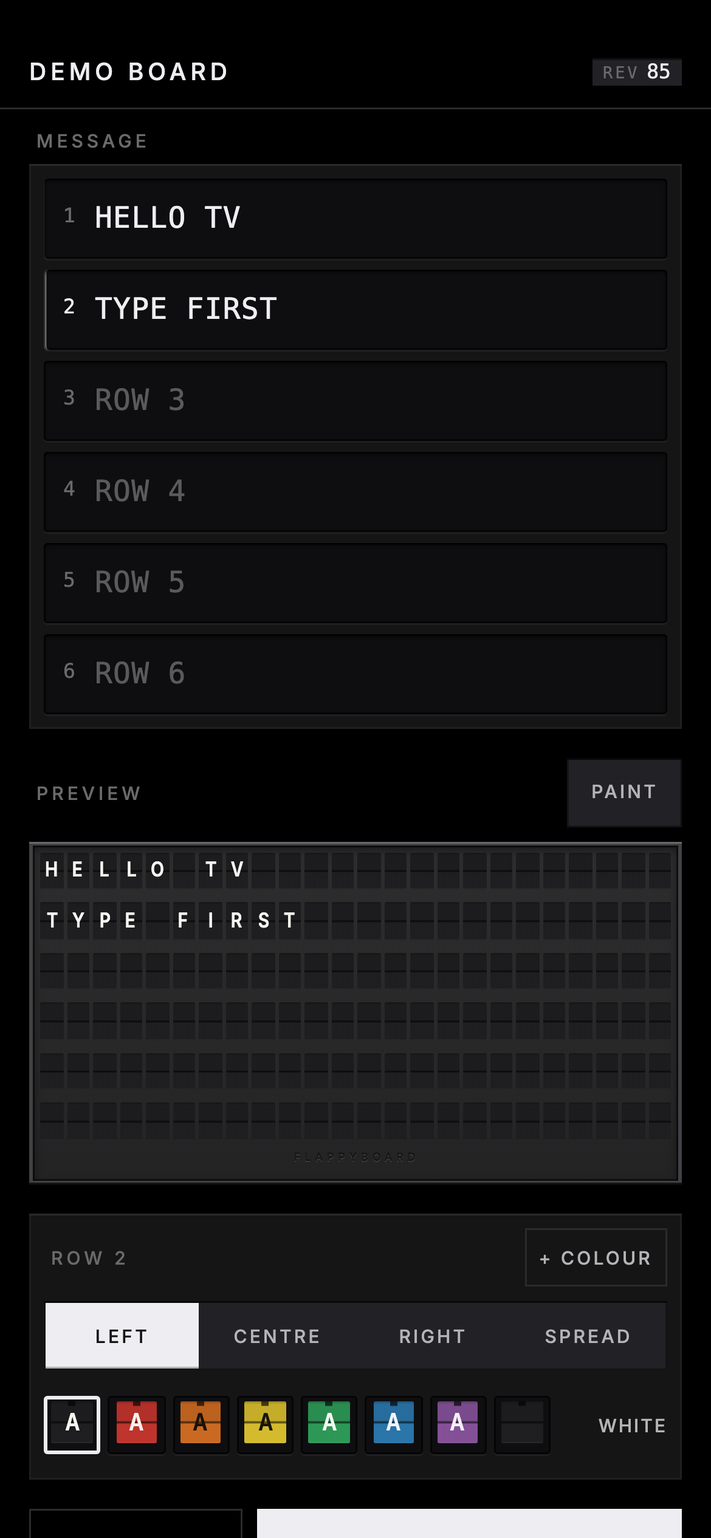
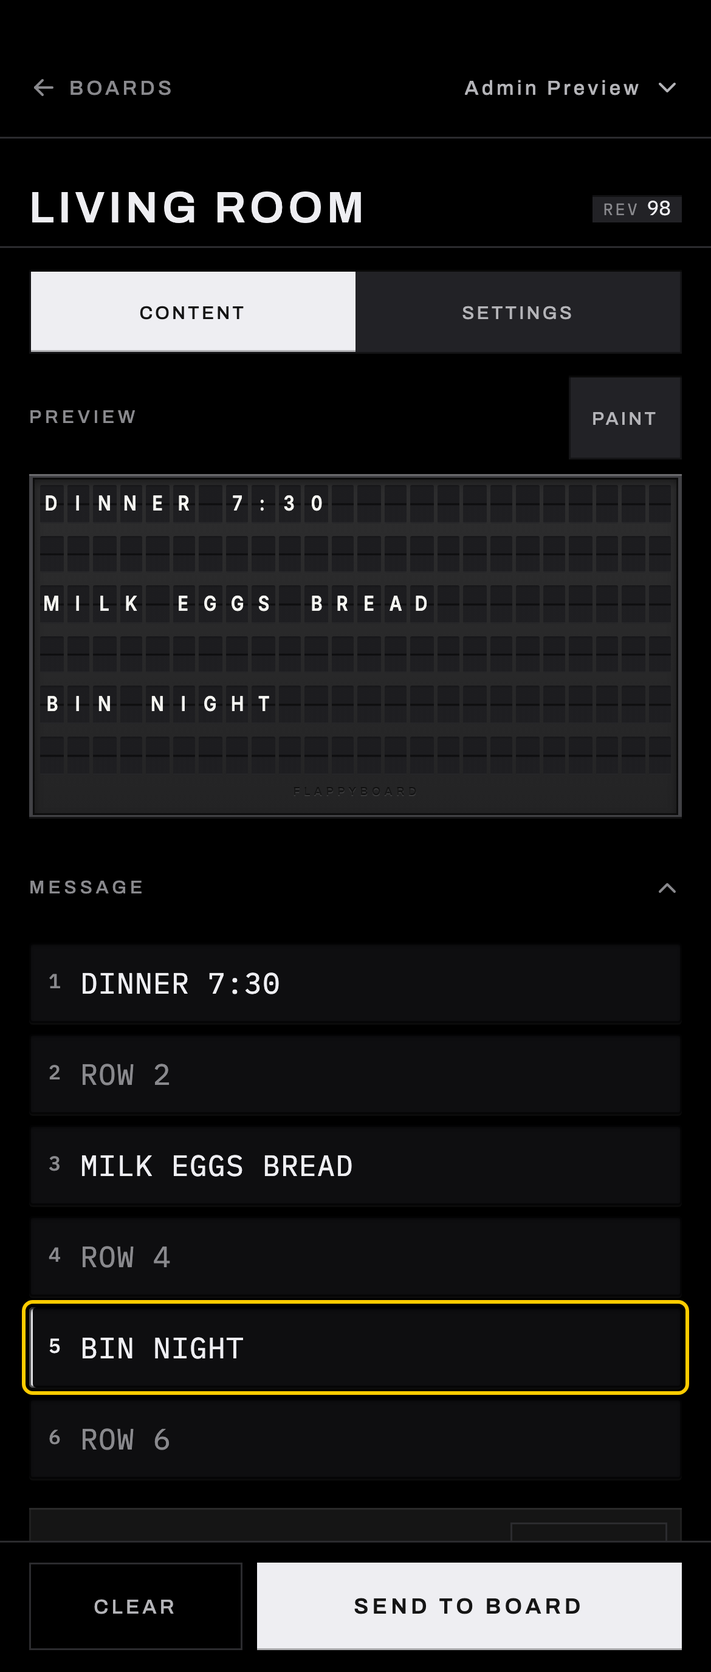
docs(readme): refresh screenshots and the journey the redesign replaced
The README still described the app as it was before phases 2 and 3: a
create-board form, a board picker, six bare text inputs as the primary
instrument, and a Quick start that told you to sign in and go to /boards.
None of that exists any more.

Recaptured every phone and TV screenshot against the shipped console, and
added the two the product never had a picture of — the flap pairing code a
television shows, and the flap code field on /link.

Also corrected, since they were each wrong rather than merely stale:
  - the test badge (849 -> 1,262) and the verification line (44 -> 54 files,
    harness 7/7 -> 10/10)
  - Issue #1 is closed; the README still said not to deploy with a real API
    key, which has not been true since e04b427
  - dropped boards-page.png, which showed a page that no longer exists

One copy defect the settings screenshot exposed: revoke.confirm read
"Unpair phones" while every other string in boards.json reads "Un-pair".
Standardised on the hyphenated form.

diff --git a/README.md b/README.md
@@ -9,7 +9,7 @@
   <a href="https://workers.cloudflare.com/"><img src="https://img.shields.io/badge/runtime-Cloudflare%20Workers-F38020?logo=cloudflare&logoColor=white" alt="Cloudflare Workers"></a>
   <a href="https://reactrouter.com/"><img src="https://img.shields.io/badge/framework-React%20Router%20v7-CA4245?logo=reactrouter&logoColor=white" alt="React Router v7"></a>
   <a href="https://effect.website/"><img src="https://img.shields.io/badge/typed-Effect%20TS-1E1E2C" alt="Effect TS"></a>
-  <img src="https://img.shields.io/badge/tests-849%20passing-3fb950" alt="849 tests passing">
+  <img src="https://img.shields.io/badge/tests-1262%20passing-3fb950" alt="1262 tests passing">
 </p>
 
 <p align="center">
@@ -30,29 +30,55 @@ It is the family-message-board / departures-board / passive-aggressive-roommate-
 
 ## How it works
 
-### 1. The TV opens a URL and never touches it again
+### 1. Point a TV at `/tv`. It shows a code.
 
 <p align="center">
-  <img src="docs/assets/tv-qr.png" alt="The TV display showing a live board with a QR code overlay in the bottom-right corner labelled SCAN TO CONTROL" width="700">
+  <img src="docs/assets/tv-pairing.png" alt="The TV pairing screen: a large QR code above the instruction to scan it, and below that the six-character pairing code set in real split-flap tiles reading XAN3XK" width="700">
 </p>
 
-Six rows, twenty-four columns, full-bleed, every cell with its own character *and* its own colour. A QR code sits in the corner. That is the whole TV-side interaction — you type the URL once with the remote and you are done forever.
+This is the one instruction the product cannot infer for you: **on your TV's browser, go to `yourhost/tv`.** Type it once with the remote and never touch that TV again.
 
-### 2. Your phone scans the QR and becomes the keyboard
+The code underneath the QR is not a mono readout of a code — it is six **real flap tiles**, the same component that draws the board. The split-flap module is the product's atomic UI primitive, so it shows up wherever a short string matters, at whatever scale that surface needs.
+
+### 2. Scan it with your phone. That's the whole setup.
 
 <p align="center">
-  <img src="docs/assets/phone-controller.png" alt="The phone controller: six numbered text inputs for the six board rows, a live preview grid beneath them, and per-row alignment and colour controls" width="330">
+  <img src="docs/assets/link-code.png" alt="The Link a TV page on a phone: the six-character code field rendered as six split-flap tiles with K7Q typed into the first three, a lit slot bar marking the next cell, and a PAIR THE TV key beneath" width="300">
+</p>
+
+Scan, sign in, done — you land on the controller for that TV, with nothing to answer. **A board *is* a TV**, so scanning always makes one and names it for you. There is no "create a board" step, no picker, and no board-count branch anywhere in the flow.
+
+If the phone can't scan (or the QR has expired), the same page takes the code by hand — and the field is the flap tiles themselves.
+
+### 3. The TV becomes the board
+
+<p align="center">
+  <img src="docs/assets/tv-qr.png" alt="The TV display showing a live board reading DINNER 7:30 in yellow, MILK EGGS BREAD with MILK in green, and BIN NIGHT with BIN in blue, with a QR code overlay in the bottom-right corner labelled SCAN TO CONTROL" width="820">
+</p>
+
+Six rows, twenty-four columns, full-bleed, every cell with its own character *and* its own colour. A QR code sits in the corner so anyone else in the room can join by pointing a camera at it.
+
+### 4. The phone is the controller
+
+<p align="center">
+  <img src="docs/assets/phone-controller.png" alt="The phone controller: a LIVING ROOM nameplate with a revision counter, Content and Settings tabs, a live preview of the board, and six numbered row wells below it" width="300">
   &nbsp;&nbsp;
-  <img src="docs/assets/row-paint.png" alt="Paint mode on the phone: tapping cells in the preview grid to colour them individually" width="330">
+  <img src="docs/assets/row-paint.png" alt="Paint mode on the phone: an eight-swatch colour palette above the preview grid, with DINNER painted yellow, MILK green and BIN blue" width="300">
 </p>
 
-**Six bare text inputs — one per row.** Type, hit send, watch the TV. That's the fast path, and it's the whole thing for most messages.
+**The board itself is the instrument.** One rectangle sits at the top: when nothing is composed it shows the live board off the socket, and the moment you type it becomes the draft. Six numbered wells sit under it, one per row — type, hit send, watch the TV.
 
-Underneath is a live preview of the actual grid, which doubles as the colouring surface: switch to **Paint** and tap cells to colour them, or set a whole row at once. Alignment is per-row — left, centre, right, or spread.
+That same rectangle is the colouring surface: switch to **Paint**, pick one of the eight pigments, and tap cells or drag across a run. Alignment is per-row — left, centre, right, or spread.
+
+**Settings** is the second tab, on the same screen: the TV's address, paired devices with a count, rename, un-pair, delete. Destructive actions arm in place rather than opening a dialog — the key swaps to a consequence sentence and a confirm, in the same slot your thumb is already on.
+
+<p align="center">
+  <img src="docs/assets/phone-settings.png" alt="The Settings tab on the phone: the TV address in mono with a copy button, a board name field with a Save key, paired devices showing a count of zero, un-pair controls, and a Delete board key outlined in red under a CAREFUL label" width="300">
+</p>
 
 The phone that scanned the QR gets a **12-hour grant** to write to that one board. It never sees your account. You can revoke every outstanding grant from the owner's side at any time, and the QR itself is single-use — a token that's already been redeemed is refused.
 
-### 3. Or hold the button and just talk
+### 5. Or hold the button and just talk
 
 Hold the push-to-talk button, say *"put up tonight's dinner plan and make it sarcastic"*, let go.
 
@@ -95,7 +121,7 @@ bun run db:seed             # admin/user fixtures + a demo board
 bun run dev                 # http://localhost:5173
 ```
 
-Sign in, go to `/boards`, create one, and open its URL in a second window — that's your "TV". The QR in the corner points at the controller.
+Open `http://localhost:5173/tv` in a second window — that's your "TV". Scan the QR with your phone, or type the code it shows into `/link` in a third window. Either way you land on the controller with a board already made.
 
 The AI features need an `ANTHROPIC_API_KEY` in `.dev.vars`; everything else works without one.
 
@@ -122,13 +148,15 @@ wrangler secret put ANTHROPIC_API_KEY --env preview
 
 ---
 
-## Managing boards
+## More than one TV
 
 <p align="center">
-  <img src="docs/assets/boards-page.png" alt="The boards page: a create-board form and cards for each board showing its TV URL with a copy button, plus Open display and Control from phone actions" width="760">
+  <img src="docs/assets/boards-rack.png" alt="The boards rack on a phone: three rows, each showing a board's name set in coloured split-flap tiles — LIVING ROOM in orange, KITCHEN in violet, STUDIO in green — with its revision beneath, and a panel at the bottom giving the TV address with a copy button" width="330">
 </p>
 
-One account, many boards — kitchen, office, the one you point at your flatmate. Each card hands you the URL to type into that TV's browser, a copy button, and direct links to the display and the controller.
+One account, many TVs — kitchen, office, the one you point at your flatmate. The rack is a **switcher, not a destination**: each board wears its own name in real flaps, in a pigment derived from its id, so you recognise the row you want by colour before you've read it. Everything you can *do* to a board lives on that board's controller, not here.
+
+Adding another TV is one action with nothing to answer: open `/tv` on it and scan.
 
 Deleting a board cascades its snapshot history with it, and every grant that pointed at it stops working in the same instant — a grant is verified against the board row, so once the row is gone there is nothing left to verify against.
 
@@ -165,7 +193,7 @@ Built on [cf-saas-starter-react-router](https://github.com/SeanningTatum/cf-saas
 
 ## Verification
 
-`typecheck` 0 · **849 tests across 44 files** · `build` 0 · `harness-check` 7/7 · e2e smoke green.
+`typecheck` 0 · **1,262 tests across 54 files** · `build` 0 · `harness-check` 10/10 · e2e smoke green.
 
 Beyond the unit suite, user-visible flows get a **browser walk**: a headless run against the live app that drives the golden path plus an error path, screenshots every step, and writes a verdict doc to `.brain/features/<slug>/verifications/`. Every screenshot in this README came out of one of those runs.
 
@@ -173,12 +201,14 @@ Beyond the unit suite, user-visible flows get a **browser walk**: a headless run
 
 ## Status
 
-**MVP.** Everything above works and is verified. Known gaps, honestly:
+**MVP, redesigned.** Everything above works and is verified. Known gaps, honestly:
 
-- 🔴 **[Issue #1](https://github.com/SeanningTatum/flappyboard/issues/1) — no rate limiting on the two paid endpoints.** `board.generate` and `/api/transcribe` both cost money per call and are reachable by anyone holding a 12-hour grant. **Do not deploy with a real API key until this lands.**
+- 🟡 **The display has never been walked on a real living-room TV** — only at TV resolution in a headless browser. This is the one owed check that matters most: the pairing code is meant to be read across a room, and the panel a 2017 Samsung ships is Chromium 56, so the flap sizing deliberately avoids `aspect-ratio` on reasoning from a documented constraint rather than a measurement on the glass.
 - The voice path hasn't been driven on a real phone yet — `mediaDevices` needs a secure context, so that's an HTTPS-deploy test.
-- The display hasn't been walked on the actual living-room TV, only at TV resolution in a headless browser.
+- Desktop composition is deferred by choice. The phone is the controller, so every surface is built phone-first; at 1440 the console is a narrow column in a lot of black.
 - Two sound packs ship (`classic`, `soft`), switchable from the phone. The registry takes more.
+
+[Issue #1](https://github.com/SeanningTatum/flappyboard/issues/1) — no rate limiting on the two endpoints that spend money — is **closed**. Both `board.generate` and `/api/transcribe` are bounded now.
 
 ---
 
@@ -226,12 +256,17 @@ bun run sfx:generate        # regenerate the flap sound pack
 
 ```
 app/
-├── components/board/   FlapTile, BoardGridView, QrOverlay, PushToTalkButton
+├── components/board/   FlapTile, BoardGridView, QrOverlay, PushToTalkButton,
+│                       FlapWord (a short string in real flaps), console.tsx
+│                       (the hardware surface kit), ConsoleShell, ControllerSettings
 ├── lib/board/          compile.ts (the 6×24 compiler), repair.ts, flap-travel.ts,
 │                       pairing.ts (the HMAC primitive), sfx.ts
 ├── lib/schemas/        Effect Schema — BoardMessage, BoardGrid, palette, charset
-├── routes/board/       display.tsx (the TV), control.tsx (the phone)
-├── routes/boards/      board management
+├── routes/board/       display.tsx (the TV), control.tsx (the phone — two tabs),
+│                       hardware-theme.css (the [data-surface="hardware"] scope)
+├── routes/boards/      the rack — a switcher, not a manager
+├── routes/tv.tsx       the pairing screen a television shows
+├── routes/link.tsx     scan or type a code; no UI at all on the happy path
 ├── repositories/       Drizzle-backed Effect.Service repos
 ├── services/           board-agent.ts (LLM), transcription.ts (Whisper), board-room.ts
 ├── trpc/routes/        board.ts — get, setMessage, generate, history, pairing

diff --git a/.brain/features/front-door/front-door.md b/.brain/features/front-door/front-door.md
@@ -1,0 +1,103 @@
+# Feature: Front Door
+
+_Last updated: 2026-07-31_
+
+## Purpose
+
+The public landing page and the auth pages — everything a visitor sees before they have an account. This is phase 4 of the brand/IA/UX redesign (`~/.claude/plans/i-want-us-to-optimized-lightning.md`), and it is the last surface still wearing the boilerplate the project was forked from.
+
+What is there today is not a weak landing page, it is **the wrong product's** landing page. `app/routes/home.tsx` returns `title: "Cloudflare SaaS Starter"`, six cards advertising the stack (Workers, D1, Better Auth…), a Quickstart block printing `bun install`, and — the sharpest tell — a section printing `/start-task` and `.brain/recipes/` paths **to end users**. A family looking for a message board for their TV is being sold a SaaS template.
+
+It is replaced by one screen that does the only three jobs a front door has here: show the product actually working, say what to do next, and hand over the one instruction the product has never given anywhere — *on your TV's browser, go to `yourhost/tv`*.
+
+## When It's Used
+
+- A visitor lands on `/` with no session.
+- A visitor lands on `/` **with** a session — `resolveSignedInHome` (`app/lib/session.ts`) already redirects them to their board or the rack, so the landing page is genuinely public-only.
+- A TV holder scans the QR on `/tv` while signed out — `/link` bounces to auth with `next` carrying the pairing code, and the auth page must default to **sign-up**, because someone scanning a code they just minted has no account yet.
+
+## How It Works
+
+Static route with a loader that supplies only the host for the `yourhost/tv` instruction (the visitor cannot be expected to know their own deployment's origin). No database access, no session requirement beyond the existing signed-in redirect.
+
+The headline is not text styled to look like a board — it **is** a board, rendered by the same frozen primitives the TV uses. Locked decision 4: it flips once on load, then rests. Not a loop; a loop turns the product's one memorable behaviour into background noise, and it fights `prefers-reduced-motion`.
+
+### Testability
+
+Unit: the loader's host derivation and any pure copy/CTA resolution. i18n parity is guarded by the locale parity test — `home.json` exists in both `en` and `zh` and every key must match. Browser proof: `.brain/features/front-door/verifications/<date>.md`, plus a `design-critic` pass on the render (any P0/P1 blocks).
+
+## Key Files
+
+| File | Role |
+|------|------|
+| `app/routes/home.tsx` | The landing page — rewritten from 400 L of boilerplate |
+| `app/routes/login.tsx`, `app/routes/sign-up.tsx` | Merged into one toggled page |
+| `app/locales/{en,zh}/home.json` | Copy, both locales |
+| `app/components/board/flap-word.tsx` | The flap primitive the headline is set in |
+| `app/components/feature-card.tsx` | **Deleted** with the old page |
+
+## Dependencies
+
+- feat-019 `brand-system` — tokens, the two typefaces, the 2px radius, `--signal`
+- feat-020 `app-ia` — `resolveSignedInHome`, the redirect shims
+- feat-021 `console-journey-v2` — `FlapWord`, the hardware surface scope
+
+## Design research
+
+Ran `/design-research` 2026-07-31. **Stance: extending** the locked direction (`codebase/design-system.md`, phase 1) — nothing here re-opens the Elektron / Oxide / teenage engineering / Vestaboard lock, the typefaces, the 2px radius, amber-as-`--signal`, or the frozen board.
+
+**Recorded degradation.** Refero MCP was unavailable — `REFERO_MCP_TOKEN` is unset by owner decision (locked decision 15, review round 1), so steps 4–5 ran degraded. No Refero UUID appears below and none was invented. Substituted: the `refero-design` skill's bundled craft references, `ui-ux-pro-max` v2.11.0 for the a11y floor, the repo's own dated reference locks, and **five live page fetches performed for this task** — the only non-repo evidence behind the directions.
+
+### References
+
+| Source | URL | Role |
+|---|---|---|
+| Panic Playdate | https://play.date/ | **Primary.** Founder voice; the one weird feature named and defended out loud; a concrete commitment above the fold; personality carried by copy and one interaction, not colour |
+| teenage engineering EP-133 | https://teenage.engineering/products/ep-133 | Secondary, **bounded to two details**: the spec table as a page section, and the TV address printed as a spec row |
+| Vestaboard | https://www.vestaboard.com/ | Studied and **rejected as a direction** — see below |
+| Tidbyt | https://tidbyt.com/ | Category study only |
+| Daylight DC-1 | https://daylightcomputer.com/ | Category study only |
+
+**The bar the category sets** (none of it optional, all five products do it): the object is in viewport one at real scale — never a UI screenshot in browser chrome; the first line says what the thing *is* in plain words; something concrete and committing sits above the fold; one weird detail is owned proudly in the brand's own voice; specs are brand media, not footer material. **None of the five uses a feature-card grid as its primary explanation** — which is exactly what this page is being rewritten away from.
+
+### Dominant direction — "Say something"
+
+**You drive the board before you sign up.** A real text input under a live board: the visitor types on the phone they are holding and the flaps move, before any account exists. The page *is* a controller, which is the owner's own thesis about the product, demonstrated rather than claimed.
+
+Vestaboard structurally cannot offer this — they cannot let a stranger drive a $3,000 mechanical object from their homepage. We can, because our flaps are software. It is the single most memorable move available in this category and it is exclusively ours.
+
+**Direction A ("the object on the wall", Vestaboard) was rejected outright rather than blended in.** It fails the anti-slop identity test: swap our wordmark for Vestaboard's and its first viewport still works. Synthesis is choosing and adapting, not finding the safe intersection.
+
+### Decision ledger
+
+| Axis | Choice | Traces to |
+|---|---|---|
+| **Layout** | Live board → one sentence → a real input → CTA → the TV instruction → a spec table. No cards anywhere; the spec table replaces every grid the old page had | Playdate's section rhythm; the table from EP-133 |
+| **Layout** | Board composed via `BoardGridView variant="inline"` — it drops the enclosure and sizes off its container. `BoardFrame` is hard-locked to `h-screen w-screen` and cannot be composed inline | Repo constraint, `board-frame.tsx:64` |
+| **Type** | Archivo for display at genuine scale; IBM Plex Mono for the TV address and every spec value. `--font-flap` stays board-only | Phase-1 lock; EP-133's weight-and-caps emphasis |
+| **Type** | The `<h1>` is real prose, not flaps. The flaps spell a **fixed, language-neutral Latin string in both locales** — `BOARD_CHARS` is Latin by construction so `foldsToFlaps` (`flap-word.tsx:174`) is false for all of `zh`. This is honest to the object: a real split-flap shows Latin flaps to a Chinese owner too | Repo constraint |
+| **Spacing** | Asymmetric whitespace, hairline `--border` rules between sections, no card padding boxes. 4px rhythm | EP-133 |
+| **Motion** | One flip on load, then rest — **then user-initiated flips only, never a loop.** This extends locked decision 4 and was put to the owner explicitly; approved 2026-07-31 | Decision 4 + owner extension |
+| **Motion** | Reduced motion needs no new code — `board-grid-view.tsx:343,416,584` already implements a no-travel path and `flap-tile.tsx:336-340` keeps it a class, not an inline duration. The single flip degrades to a snap for free | Repo constraint |
+| **Imagery** | **None.** No photography, no video, no product shot, no browser chrome. The only media is the live board — a code-native primitive stronger than any product shot | Anti-slop tell #9 |
+| **Copy** | Object-first and plain. Roughly four sentences: what it is, the invitation to type, the TV instruction, the CTA. One short self-aware line answering *"is this just a screensaver?"* | Playdate's *"Is it a gimmick? Nah."* rhythm |
+| **Copy** | `yourhost/tv` is selectable text in mono, printed twice — once as a lit instruction, once as a spec row. It is the one thing about this product nobody can guess and the app has never said anywhere | EP-133's connection-detail placement |
+| **Colour** | Warm paper `--background`, ink `--primary` CTA. **The CTA is never amber** — `--signal` is a pilot lamp, and spending it on the first click of the funnel spends the signal | Phase-1 token contract |
+
+### Token map
+
+No new token, and no hex in JSX. Canvas `--background` · headings `--text-heading` · body `--text-body` (10.43:1 light / 12.05:1 dark) · CTA `--primary`/`--primary-foreground` · lamp beside the TV address `--signal` · rules and spec rows `--border` · the input well `--input` · radius `--radius` (2px — the CTA is a rectangle, never a pill) · the board's own pigments `--flap-*`, theme-invariant and finally spent.
+
+**Two traps for anyone editing this page:** `--hw-*` resolve to **empty** at `:root` — the landing is an app surface, so every hardware value has an app-surface equivalent above. And a full-bleed dark band around the board is `className="dark"`, the mechanism the repo already uses, not a restated hex.
+
+### Slop risks named up front
+
+1. **Collapsing the one thing we can render.** Showing the board as a screenshot, or hand-rolling "board-ish" rounded squares, or demoting it to a decorative header strip. *Litmus: if the first viewport survives with the board removed, the board is decoration and the page failed.*
+2. **Cards by inheritance.** The page being deleted is six `FeatureCard`s plus three `Card`-based pillars. The pull toward "three cards: Type it · Ask the LLM · Put it on TV" is enormous and would be indistinguishable from the thing being removed.
+3. **Dark-by-default plus token role drift.** The hardware surface is legitimately dark, which supplies a ready-made excuse to paint the landing black and the CTA amber. Both are wrong.
+
+## Changelog
+
+| Date | Change |
+|------|--------|
+| 2026-07-31 | Scoped as feat-022. Claimed in-progress; `/design-research` dispatched for the landing surface. |

diff --git a/.brain/runs/progress.md b/.brain/runs/progress.md
@@ -21,6 +21,50 @@
 
 ---
 
+## 2026-08-01 — design research: landing page — locked Panic Playdate as primary, direction C 'say something' (drive the board before you sign up). Owner approved extending decision 4: one flip on load, then user-initiated flips only, never a loop. Vestaboard rejected outright on the identity test. Refero degraded (token unset) — five live page fetches substituted. Ledger written to features/front-door/front-door.md.
+- branch: `feat/front-door`
+- in-progress feature: none
+- run note: none
+- next: implement the landing page via ui-builder, then design:audit + feature-verifier + design-critic; then refresh README screenshots
+
+---
+
+## 2026-07-31 — shipped console-journey-v2: PR #12 (open, mergeable): https://github.com/SeanningTatum/flappyboard/pull/12 — resolveAutoLink, the board picker, the 
+- branch: `feat/app-journey-v2`
+- in-progress feature: none
+- run note: none
+
+---
+
+## 2026-07-31 — shipped app-ia: PR #12 (open, mergeable): https://github.com/SeanningTatum/flappyboard/pull/12 — /dashboard and the six /:lng aliases de
+- branch: `feat/app-journey-v2`
+- in-progress feature: none
+- run note: none
+
+---
+
+## 2026-07-31 — PR opened for console-journey-v2: https://github.com/SeanningTatum/flappyboard/pull/12
+- branch: `feat/app-journey-v2`
+- in-progress feature: none
+- run note: none
+
+---
+
+## 2026-07-31 — PR opened for app-ia: https://github.com/SeanningTatum/flappyboard/pull/12
+- branch: `feat/app-journey-v2`
+- in-progress feature: none
+- run note: none
+
+---
+
+## 2026-07-31 — PR #12 opened for app-ia (feat-020) + console-journey-v2 (feat-021). Three design-critic rounds: DO NOT SHIP, DO NOT SHIP, SHIP. Round 2 refuted part of round 1's own fix (the /link caret only painted while focused, so the field measured 1.15:1 at rest). Defects found beyond the brief: non-admin sign-out did not exist, every text input in the app had no focus indicator (input.tsx carried outline-none, the same defect fixed in button.tsx during phase 1), ConsoleField clobbered its own className via prop spread, both auth forms still navigated to the deleted /dashboard, /admin was a dead end, and design:audit had been silently measuring /login for every gated route. Gates: typecheck, 1262 unit, 6/6 e2e, build, harness 10/10, signed-in design:audit HARD pass on three surfaces, keyboard walk 14/14, zh walk clean.
+- branch: `feat/app-journey-v2`
+- in-progress feature: none
+- run note: none
+- next: await review on PR #12; then phase 4 (front-door) rewrites home.tsx and merges login/sign-up. Owed before shipping to a real household: the physical-TV check (Tizen render of the flap code, legibility at 10 feet).
+
+---
+
 ## 2026-07-31 — app-ia (feat-020) + console-journey-v2 (feat-021) implemented on feat/app-journey-v2 — /dashboard and the six /:lng aliases deleted behind literal forwarding routes (/pricing is a real 404 now), resolveSignedInHome added, /boards rebuilt as a hardware-scoped rack with flap nameplates, resolveAutoLink and the whole picker deleted (/link 678 -> ~300 lines, none rendered on the happy path), /tv pairing code set in six real flaps, controller gained Content|Settings tabs at the frozen path with the old board manager inlined as console controls, and the Content tab reduced from two board renders to one live-or-draft instrument. Three defects found beyond the brief: non-admin sign-out did not exist, /admin was a dead end, and ConsoleField's className was clobbered by its own prop spread. design:audit could not see any signed-in surface and was silently measuring /login; it now takes --sign-in and refuses when --scope matches nothing. Gates: typecheck green, 1262 unit tests, 6 e2e (4 asserting the migration), build green, harness 10/10, signed-in design:audit HARD checks pass on /boards, the controller, /link and /tv. Two verification docs written, both PASS.
 - branch: `feat/app-journey-v2`
 - in-progress feature: none

diff --git a/.brain/features/index.md b/.brain/features/index.md
@@ -63,8 +63,9 @@ features/
 | Live Weather | [`live-weather/live-weather.md`](live-weather/live-weather.md) | planned | — |
 | OpenTelemetry Span Tracing | [`otel-tracing/otel-tracing.md`](otel-tracing/otel-tracing.md) | shipped (synced from template) | — (upstream-verified only) |
 | Brand System | [`brand-system/brand-system.md`](brand-system/brand-system.md) | shipped | [2026-07-31 ✅ PASS](brand-system/verifications/2026-07-31.md) |
-| App IA & Navigation | [`app-ia/app-ia.md`](app-ia/app-ia.md) | in-progress | — |
-| Console Journey v2 | [`console-journey-v2/console-journey-v2.md`](console-journey-v2/console-journey-v2.md) | planned | — |
+| App IA & Navigation | [`app-ia/app-ia.md`](app-ia/app-ia.md) | shipped | [2026-07-31 ✅ PASS](app-ia/verifications/2026-07-31.md) |
+| Console Journey v2 | [`console-journey-v2/console-journey-v2.md`](console-journey-v2/console-journey-v2.md) | shipped | [2026-07-31 ✅ PASS](console-journey-v2/verifications/2026-07-31.md) |
+| Front Door | [`front-door/front-door.md`](front-door/front-door.md) | in-progress | — |
 
 > **This table mirrors `feature_list.json`, which is the source of truth
 > `brain check` enforces.** It drifted once before and stayed wrong for two

diff --git a/.brain/features/console-journey-v2/verifications/2026-07-31.md b/.brain/features/console-journey-v2/verifications/2026-07-31.md
@@ -91,3 +91,9 @@ Seven P2s and six P3s remained at that point. Taken in a final pass: the label l
 ## Verdict rationale
 
 PASS. Every claim above was driven through the live app rather than read: the picker's absence is visible in the render, the flap code is read back off the DOM, the instrument's live→draft swap is captured in two screenshots of the same rectangle, and the rollback is checked by counting rows before and after a deliberate failure. Signed-in `design:audit`: controller 10.16:1 body contrast, no overflow at 390 or 1440, 8 chromatic colours (the paint palette — expected, recorded, not a defect); `/link` 10.16:1, no overflow. HARD checks pass on both.
+
+<!-- brain:verification
+commit: 511277b
+verified_by: main-thread
+commands: bun run typecheck (exit 0); bun run test (exit 0, 1262 tests); bunx playwright test (exit 0, 6/6); bun run build (exit 0); ./scripts/harness-check.sh (10/10)
+-->

diff --git a/.brain/features/app-ia/verifications/2026-07-31.md b/.brain/features/app-ia/verifications/2026-07-31.md
@@ -47,3 +47,9 @@ Collected by the script's `console` + `pageerror` + `response` listeners, across
 ## Verdict rationale
 
 PASS. The feature's three claims are each checked by something that would fail if they regressed rather than by inspection: the removed URLs have e2e tests, non-admin sign-out is driven through the real control in `e2e/auth.spec.ts` (an endpoint-level `fetch` would have tested the wrong thing, since the defect was that no *control* existed), and `resolveSignedInHome` is pure and unit-tested at all three branches. Signed-in `design:audit` on `/boards`: 3 chromatic colours, 10.16:1 body contrast, no overflow at 390 or 1440, HARD checks pass.
+
+<!-- brain:verification
+commit: 511277b
+verified_by: main-thread
+commands: bun run typecheck (exit 0); bun run test (exit 0, 1262 tests); bunx playwright test (exit 0, 6/6); bun run build (exit 0); ./scripts/harness-check.sh (10/10)
+-->
